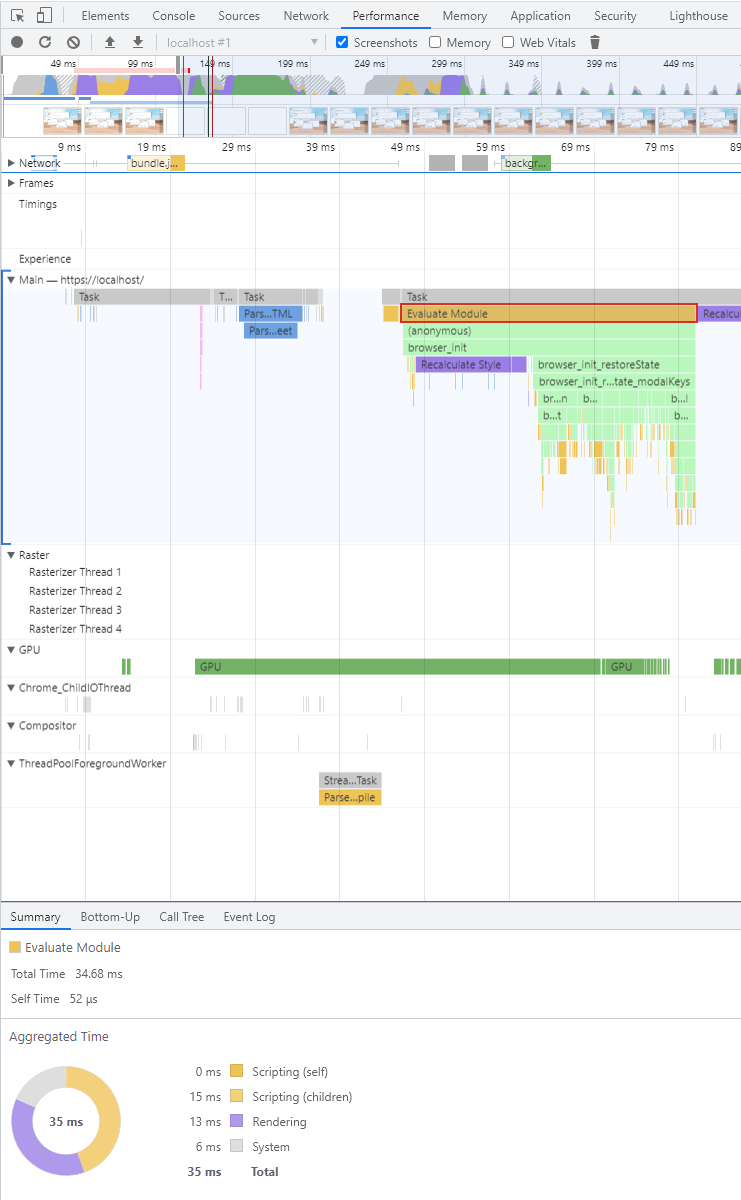
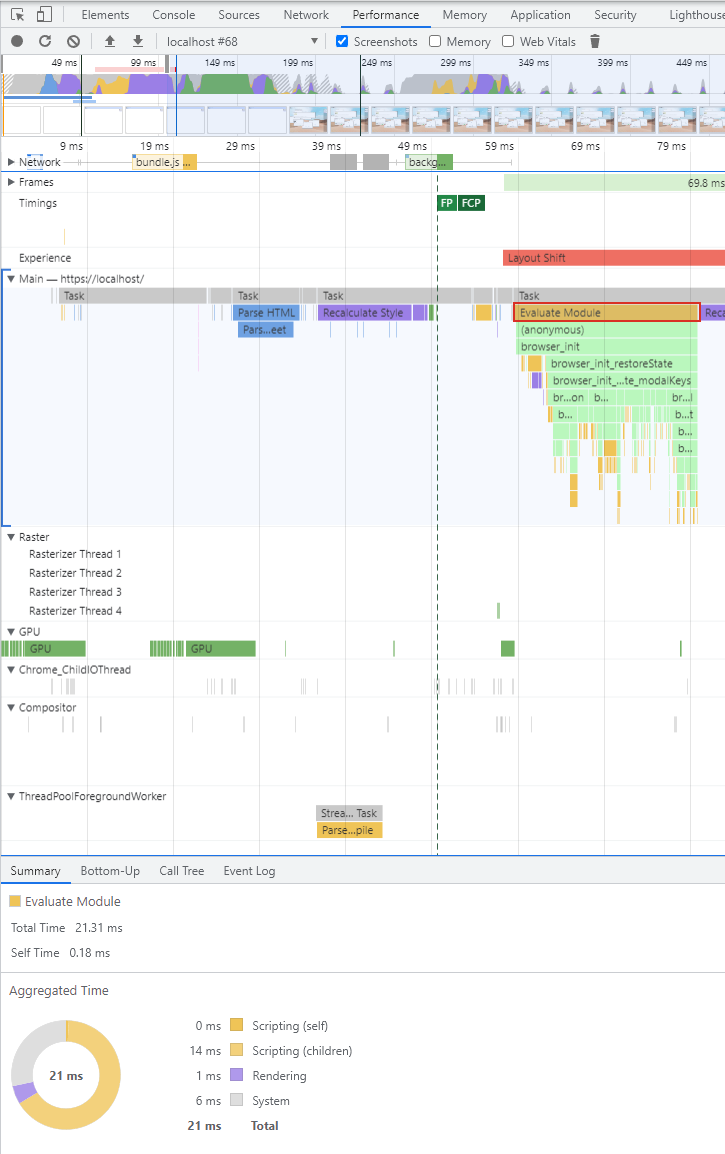
was able to load the page in under 80ms

diff --git a/performance_frontend.md b/performance_frontend.md
@@ -3,8 +3,8 @@ Written 18 February 2023. Updated 25 February 2023.
 
 <!-- cspell: words protobuf, SODIMM, unminified, WHATWG, Xeon -->
 
-In a personal project, a single page application, I am able to load my application as fast as **81ms**.
-This application displays as the equivalent of an operating system GUI with 7 windows open with full state restoration.
+In a personal project, a single page application, I am able to load my application as fast as **80ms**.
+This application displays as the equivalent of an operating system GUI of 7 windows open with full state restoration.
 This document discusses how I did it and what that means for human engagement.
 I have listed screenshots of the performance graph at the bottom of the document.
 
@@ -26,7 +26,7 @@ All speed measurements obtained from the *Performance* tab of Chrome Developer T
    * CPU - Intel Xeon E5-1660 @ 3.3GHz (6 Cores)
    * Memory - 64GB DDR3 @ 1333MHz
    * GPU - NVidia GeForce GTX 1650 - driver version 528.49
-   * Application Load Speed (Fastest) - 80.94ms
+   * Application Load Speed (Fastest) - 79.87ms
    * Application Load Speed (Average of 10 Loads) - 88.67ms
    * State Restoration Logic (Fastest) - 21ms
    * State Restoration Logic (Average of 10 Loads) - 25ms
@@ -46,7 +46,7 @@ For sake of transparency the page was loaded from a localhost domain, which allo
 Even with consideration for download across the continental United States the total transmission time would take less than 100ms on a 1 gigabit fiber connection, which means the page would still come with full render and state restoration in less than a quarter second.
 
 ### Session Data
-For the same reproduction I am including the session data I used for these measurements.
+For the same reproduction I am including the session data I used for these measurements with file system paths relative to the application root.
 
 * `/lib/settings/configuration.json`
    ```json
